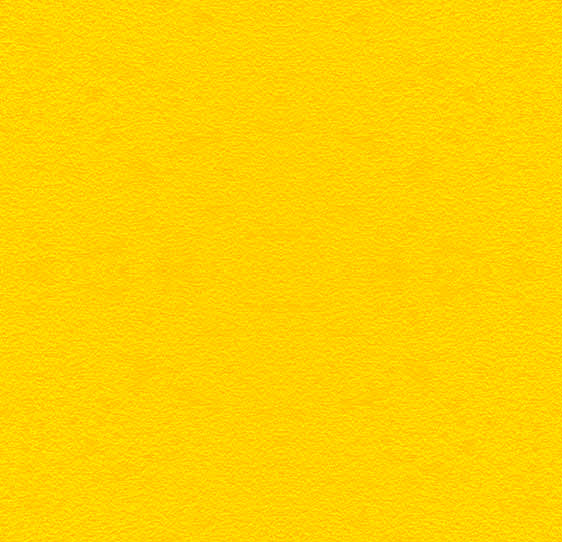
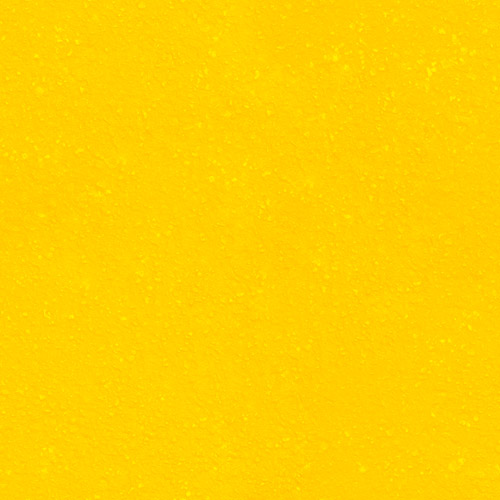
[fixmystreet.com] More realistic asphalt tile image
The black and yellow background image tiles now look more like asphalt
and less like leather.

Also, high-dpi screens now get a double resolution tile, which avoids
noticeable jpeg artifacting on the yellow #front-main in particular.

Fixes #1715.

diff --git a/web/cobrands/fixmystreet.com/layout.scss b/web/cobrands/fixmystreet.com/layout.scss
@@ -67,9 +67,21 @@ h3, h4,
 @import "_colours";
 @import "../sass/layout";
 
+body {
+    @media ($high-dpi-screen) {
+        background-image: url(images/tile@2x.jpg);
+        background-size: 500px;
+    }
+}
+
 // Tiled background stripe, not plain colour
 #front-main {
     background: $primary url(images/tile-y.jpg);
+
+    @media ($high-dpi-screen) {
+        background-image: url(images/tile-y@2x.jpg);
+        background-size: 500px;
+    }
 }
 
 .nav-menu--main {
@@ -83,9 +95,14 @@ h3, h4,
 
 #site-header {
     background: none;
-    border-image-source: url(images/tile-y-border.jpg);
-    border-image-slice: 4 0 0;
+    border-image-source: url(images/tile-y.jpg);
+    border-image-slice: 4 0 0 0;
     border-image-repeat: repeat;
+
+    @media ($high-dpi-screen) {
+        border-image-source: url(images/tile-y@2x.jpg);
+        border-image-slice: 8 0 0 0;
+    }
 }
 body.mappage {
     #site-header {
@@ -255,15 +272,25 @@ body.mappage .mysoc-footer {
 
 // FMS Pro advert
 footer {
-  background: $base_bg;
+  background: $base_bg; // (images/tile.jpg)
   margin: -1em;
   padding: 1em 0;
+
+  @media ($high-dpi-screen) {
+    background-image: url(images/tile@2x.jpg);
+    background-size: 500px;
+  }
 }
 
 .fms-pro-promo {
   margin: 1em 0 3em 0;
   padding: 2em;
   background: $primary url(images/tile-y.jpg) 0 0 repeat;
+
+  @media ($high-dpi-screen) {
+    background-image: url(images/tile-y@2x.jpg);
+    background-size: 500px;
+  }
 
   p {
     font-size: 1.2em;

diff --git a/web/cobrands/fixmystreet.com/_colours.scss b/web/cobrands/fixmystreet.com/_colours.scss
@@ -5,7 +5,7 @@ $primary_b: #F3B11E; // For the box around the front page postcode form only
 $primary_text: #222;
 
 // Tiled main body background
-$base_bg: #1A1A1A url(images/tile.jpg) 0 0 repeat;
+$base_bg: #272727 url(images/tile.jpg) 0 0 repeat;
 $base_fg: #fff;
 
 $map_nav_bg: #222;
@@ -23,3 +23,5 @@ $itemlist_item_background: #f6f6f6;
 $itemlist_item_background_hover: mix(#fff, $primary, 70%);
 
 $layout_front_stats_color: #222;
+
+$high-dpi-screen: '-webkit-min-device-pixel-ratio: 1.5), (min-resolution: 144dpi';
